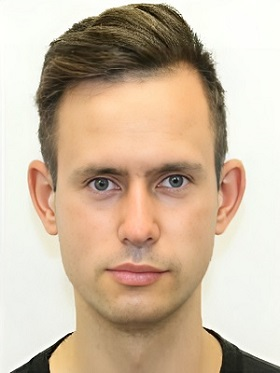
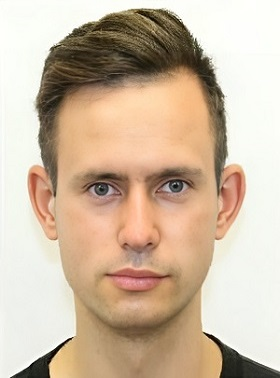
Updated photo

diff --git a/styles/styles.css b/styles/styles.css
@@ -49,7 +49,7 @@ body{
     background-color: #1E2939;
 } 
 .img{
-    margin-top: 40px;
+    margin-top: 0px;
 }
 
 .side-content{
